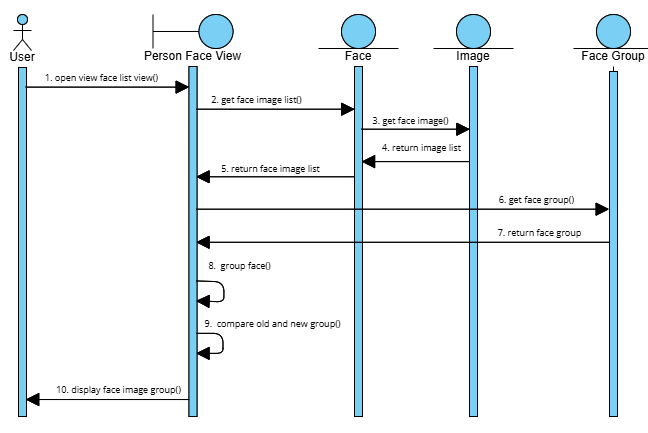
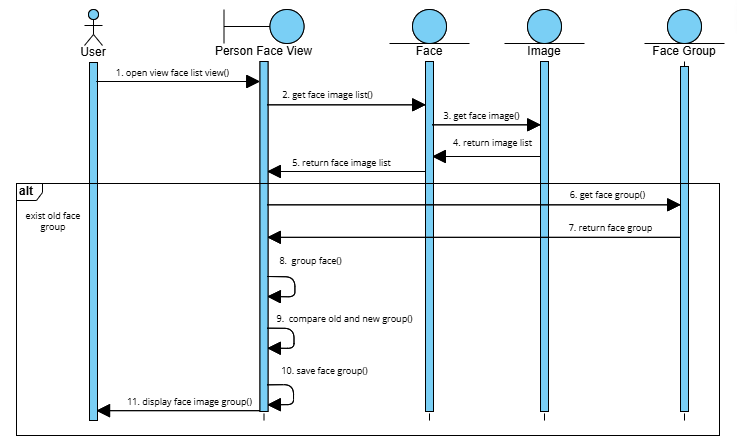
feat(3-3-11): all diagram + fix 3-3-10 sequence diagram

Changed region(s): [[0.0, 0.0, 1.0, 0.9908], [0.4012, 0.8406, 0.4938, 0.8707], [0.0, 0.03, 0.0617, 0.06]]

diff --git a/chapters/c3/usecases/3.3.11_usecase.tex b/chapters/c3/usecases/3.3.11_usecase.tex
@@ -1,2 +1,40 @@
 \subsection{Ca sử dụng xem ảnh theo khuôn mặt}
 
+\vspace{0.5cm}
+
+\noindent 
+\begin{tabularx}{\linewidth}{| l | X |} 
+\hline 
+\textbf{Mô tả} & Người dùng muốn xem danh sách các ảnh gốc mà 1 khuôn mặt được phân loại chứa. \\
+\hline 
+\textbf{Luồng cơ bản} & 1. Người dùng chọn khuôn mặt muốn xem danh sách ảnh. \newline
+                       2. Hệ thống lấy danh sách ảnh chứa khuôn mặt được chọn . \newline
+                       3. Hệ thống nhóm ảnh theo ngày đăng. \newline
+                       5. Hệ thống hiển thị giao diện với tên khuôn mặt và danh sách ảnh được sắp xếp dạng lưới. \\
+\hline 
+\textbf{Hậu điều kiện} & - Người dùng có thể chọn ảnh để xem chi tiết. \newline
+                          - Người dùng có thể đổi tên khuôn mặt. \\
+\hline 
+\textbf{Yêu cầu phi chức năng} & -Hệ thống xử lý lấy dữ liệu danh sách ảnh không quá 2s. \\
+\hline 
+\end{tabularx}
+
+\vspace{0.8cm}
+
+\noindent 
+\begin{tabular}{| c | c |}
+    \hline
+    \textbf{Biểu đồ hoạt động} & \textbf{Quan hệ} \\ 
+    \hline
+    \includegraphics[width=0.6\linewidth]{figures/c3/3-3-11-activity-diagram.png} 
+    &  
+    \includegraphics[width=0.35\linewidth]{figures/c3/3-3-11-relationship.png} \\ 
+    \hline
+\end{tabular}
+
+\begin{figure}[H]
+    \centering  
+    \includegraphics[width=1\textwidth]{figures/c3/3-3-11-sequence-diagram.png}
+    \caption{Biểu đồ tuần tự ca sử dụng xem ảnh theo khuôn mặt.}
+    \label{fig:3-3-11-sequence-diagram}
+\end{figure}
